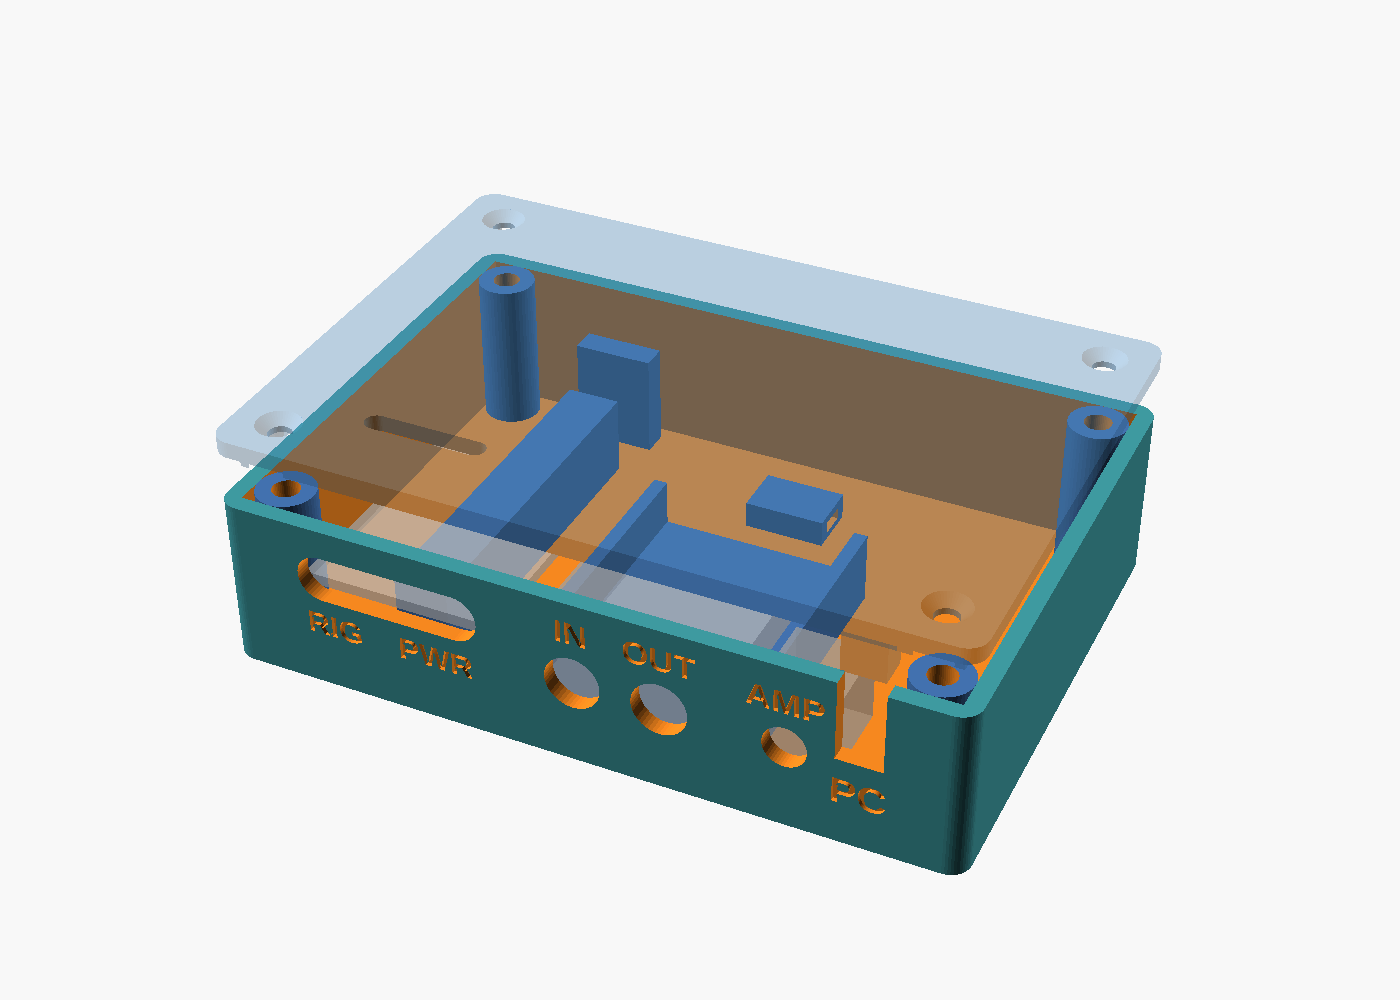
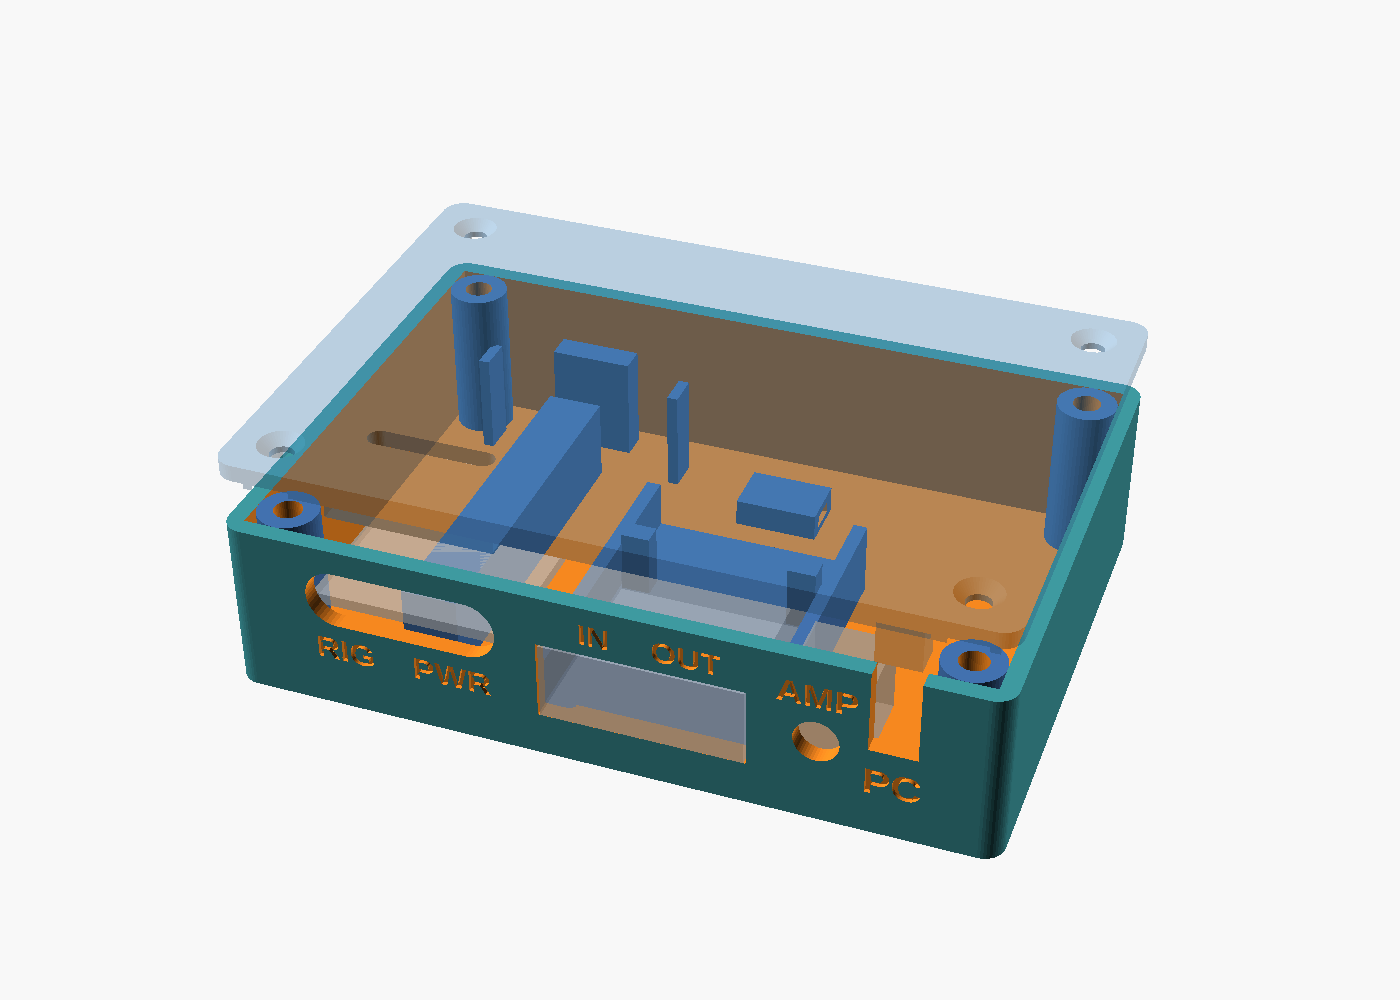
Enclosure draft 7: board held on all sides, dongle jacks flush with the panel
Draft 6 failed a test fit. The S3 board slid around because foam tape on
a rib held nothing. The 1/8" plugs could not seat because the 2.5 mm wall
sat between the plug body and the dongle's jacks.

- Dongle jack end now sits in a panel window, flush with the outside;
  stop posts behind its body take the plug-in force.
- Board boxed in by four corner fences, the stop block, and two lid
  fingers (pad on the module shield, bar on the USB-C socket shells).
- USB-C slot 7 -> 8.5 mm so plug overmolds can seat.

diff --git a/enclosure/README.md b/enclosure/README.md
@@ -5,7 +5,7 @@ wiring: [`docs/BOX_PLAN.md`](../docs/BOX_PLAN.md).
 
 ![preview](preview.png)
 
-**Status: draft 6 (2026-11-14), not printed.** Outer size 107 × 75 ×
+**Status: draft 7 (2026-11-15), not printed.** Draft 6 was test-fitted: the board moved around, and the 1/8" plugs could not seat through the 2.5 mm wall. Draft 7 fixes both. Outer size 107 × 75 ×
 27.8 mm. The base and lid render without errors and all layout checks pass.
 The dongle is measured (28 × 29 × 11.3 mm body + 14 mm USB plug, jacks
 12.4 mm apart, centres 6.35 mm up). Other sizes are datasheet values or guesses. They are marked `CHECK` in
@@ -31,12 +31,16 @@ box. See `docs/BOX_PLAN.md`.
 
 ## Inside
 
-- **S3 board:** its two USB-C sockets show through one slot. It sits on a
-  rib between its header rows, held with foam tape. A stop block behind it
-  keeps it from moving back when a cable is plugged in.
-- **CM108 dongle:** lies in a cradle with its jack end against the panel. A
-  zip tie through the cradle floor holds it. The USB extension socket sits
-  behind it on a zip-tie anchor.
+- **S3 board:** held on all sides, no tape. It sits on a rib between its
+  header rows. The wall is in front of it, a stop block behind it, and four
+  corner fences at its sides. Two fingers on the lid press it down: a pad on
+  the ESP32 module shield and a bar on the USB-C socket shells. Its two
+  USB-C sockets show through one 8.5 mm slot, tall enough for plug overmolds.
+- **CM108 dongle:** its jack end sits in a window in the panel, flush with
+  the outside, so the 1/8" plugs go fully home whatever their body size.
+  It lies in a cradle; two stop posts behind its body take the push when a
+  plug goes in. A zip tie through the cradle floor holds it down. The USB
+  extension socket sits behind it on a zip-tie anchor.
 - **AMP jack:** a 2.5 mm stereo panel jack, a different size from the 1/8"
   audio jacks so the cables can't be swapped.
 - **PC cable notch:** a tab on the lid closes it down to cable size, so the
@@ -52,6 +56,8 @@ box. See `docs/BOX_PLAN.md`.
 | `notch_w` | 6.5 | PC cable diameter + 1 (cable not chosen yet; 6.5 suits a ~5.5 mm USB cable). Only the notch and the lid tab depend on it |
 | `amp_jack_body` | 11 | The AMP jack's body width behind the panel (the 6.2 mm hole is confirmed for its ~5.8 mm thread) |
 | `insert_hole_d` | 4.0 | The bore your M3 heat-set inserts need |
+| `module_h`, `press_y` | 3.2, 46 | Height of the ESP32-S3 module shield above the board, and where its centre is from the USB end. The lid pad presses there |
+| `ext_sock_w` | 18 | Width of the USB extension's socket housing (must pass between the dongle stop posts) |
 
 ## Use
 

diff --git a/HANDOVER.md b/HANDOVER.md
@@ -1,7 +1,7 @@
 # RGO ONE SPE CAT Server — Project Handover
 *For continuation in a new Claude session*
 
-**Created:** 2026-11-14 · **Last updated:** 2026-11-14 · **Type:** ESP firmware (ESP32-S3 N16R8)
+**Created:** 2026-11-14 · **Last updated:** 2026-11-15 · **Type:** ESP firmware (ESP32-S3 N16R8)
 
 ---
 
@@ -282,6 +282,14 @@ radio → SPE path doesn't need Wi-Fi.
 
 ## What changed
 
+- **2026-11-15** — Enclosure draft 7, after a draft-6 test fit failed:
+  the S3 board slid around (foam tape on a rib held nothing), and the two
+  1/8" plugs could not seat in the dongle because the 2.5 mm wall stood
+  between plug body and jack. Now the dongle's jack end sits in a panel
+  window, flush with the outside, with stop posts behind it. The board is
+  boxed in by corner fences, the stop block and two lid fingers (module
+  shield pad, USB-C socket bar), no tape. USB-C slot raised 7 → 8.5 mm for
+  plug overmolds. New CHECK values: `module_h`, `press_y`, `ext_sock_w`.
 - **2026-11-14** — Enclosure: S3 board measured 63.5 × 28 mm (with the
   antenna end); the LED is just behind the USB-C sockets, so the lid has a
   3.2 × 18 mm slot across the board there.

diff --git a/docs/BOX_PLAN.md b/docs/BOX_PLAN.md
@@ -1,6 +1,6 @@
 # Box plan: RGO ONE CAT + audio interface
 
-**Status: enclosure draft 6 (2026-11-14).** The model is
+**Status: enclosure draft 7 (2026-11-15).** The model is
 `enclosure/rgo_box.scad`. It is not printed yet.
 
 **Decided:**
@@ -126,7 +126,7 @@ changes when the PC is off.
 
 ## Enclosure
 
-Draft 6: 107 × 75 × 27.8 mm, OpenSCAD in `enclosure/`, to be printed on the
+Draft 7: 107 × 75 × 27.8 mm (draft 6 failed a test fit: loose board, plugs could not seat through the wall), OpenSCAD in `enclosure/`, to be printed on the
 Bambu. `enclosure/README.md` lists the values to measure before printing,
 The dongle (black aluminium "USB Audio Adapter")
 is measured: body 28 × 29 × 11.3 mm plus a 14 mm USB plug, jacks 12.4 mm
@@ -160,5 +160,4 @@ lining later.
 - **Assembly:**
   - 4 × M3 heat-set inserts;
   - 4 × M3 × 8 flat-head screws;
-  - zip ties;
-  - foam tape.
+  - zip ties.
